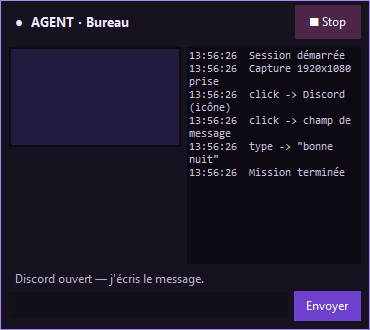
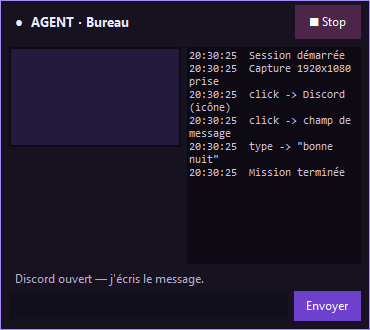
release 0.50.0 beta: version bump and refreshed screenshots

diff --git a/agent_screen/__init__.py b/agent_screen/__init__.py
@@ -1,1 +1,1 @@
-__version__ = "0.20.0"
+__version__ = "0.50.0"

diff --git a/README.md b/README.md
@@ -8,7 +8,7 @@
 
 ![Windows](https://img.shields.io/badge/Windows_10%2F11-x64-8b5cf6)
 ![Python](https://img.shields.io/badge/Python-3.11%2B-3776ab)
-![Version](https://img.shields.io/badge/version-0.20.0--b%C3%AAta-a78bfa)
+![Version](https://img.shields.io/badge/version-0.50.0--b%C3%AAta-a78bfa)
 
 [Installation](docs/INSTALLATION.md) · [Utilisation](docs/UTILISATION.md) · [IA locale](docs/IA_LOCALE.md) · [Développement](docs/DEVELOPPEMENT.md) · [Toutes les versions](https://github.com/Sayan4448/projet-4-agent-ia/releases)
 
@@ -51,7 +51,7 @@ comme Neural Agent ; aucune affiliation ni reprise de leur marque.
 
 ## Installation rapide
 
-1. Ouvrir les [**Releases**](https://github.com/Sayan4448/projet-4-agent-ia/releases/latest) et télécharger `Projet4-AgentIA-0.20.0.msi`.
+1. Ouvrir les [**Releases**](https://github.com/Sayan4448/projet-4-agent-ia/releases/latest) et télécharger `Projet4-AgentIA-0.50.0.msi`.
 2. Lancer le MSI puis ouvrir **Projet 4, agent IA** depuis le Bureau ou le menu Démarrer.
 3. Dans **Paramètres**, choisir un fournisseur, charger les modèles, sélectionner un
    modèle puis **Tester la connexion**. Pour les captures, il faut un modèle avec vision.

diff --git a/CHANGELOG.md b/CHANGELOG.md
@@ -3,7 +3,7 @@
 > **Renumérotation bêta** : le projet reste en bêta — les anciennes versions
 > `1.x` ont été renumérotées `0.1x` (1.0 → 0.10, 1.9.5 → 0.19.5, 2.0 → 0.20).
 
-## 0.20.0 (bêta)
+## 0.50.0 (bêta)
 
 - **Correctif « tapé mais jamais envoyé »** : chaque Entrée virtuelle portait le
   bit « touche étendue », donc Chromium/Electron lisait `NumpadEnter`
